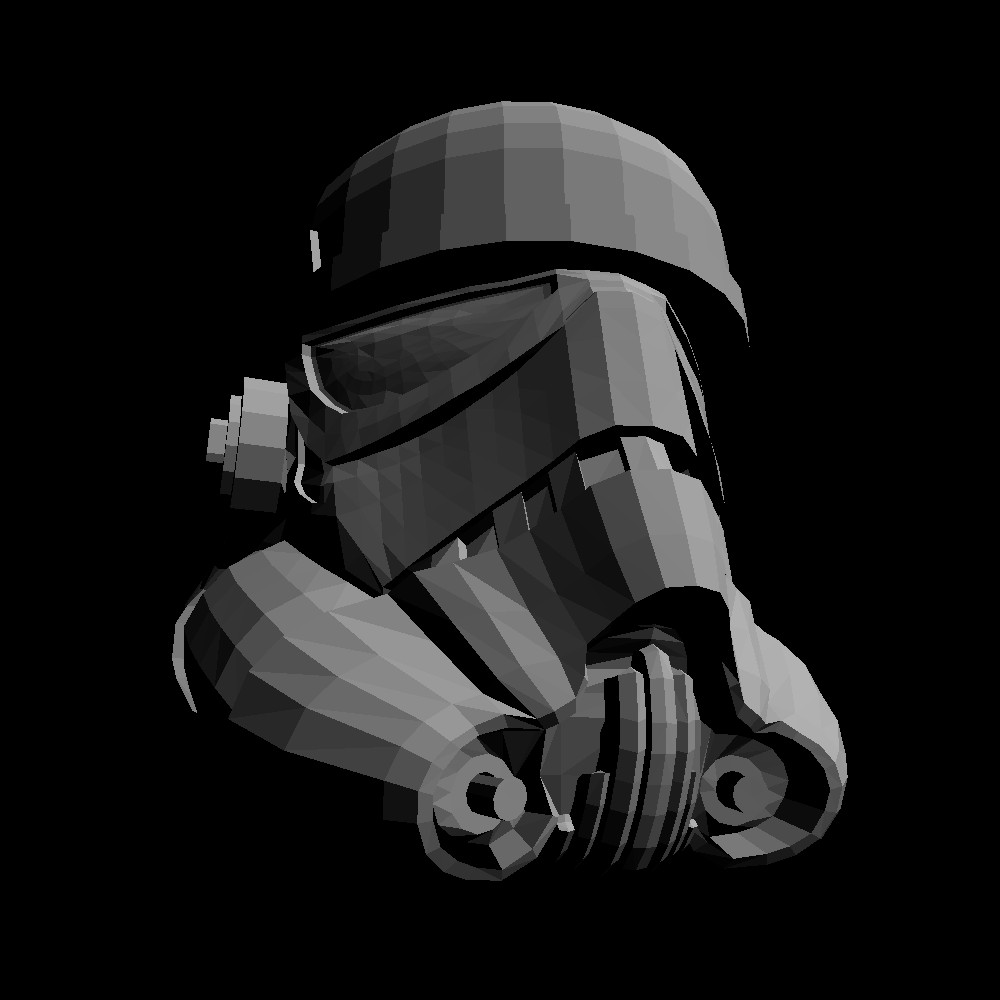
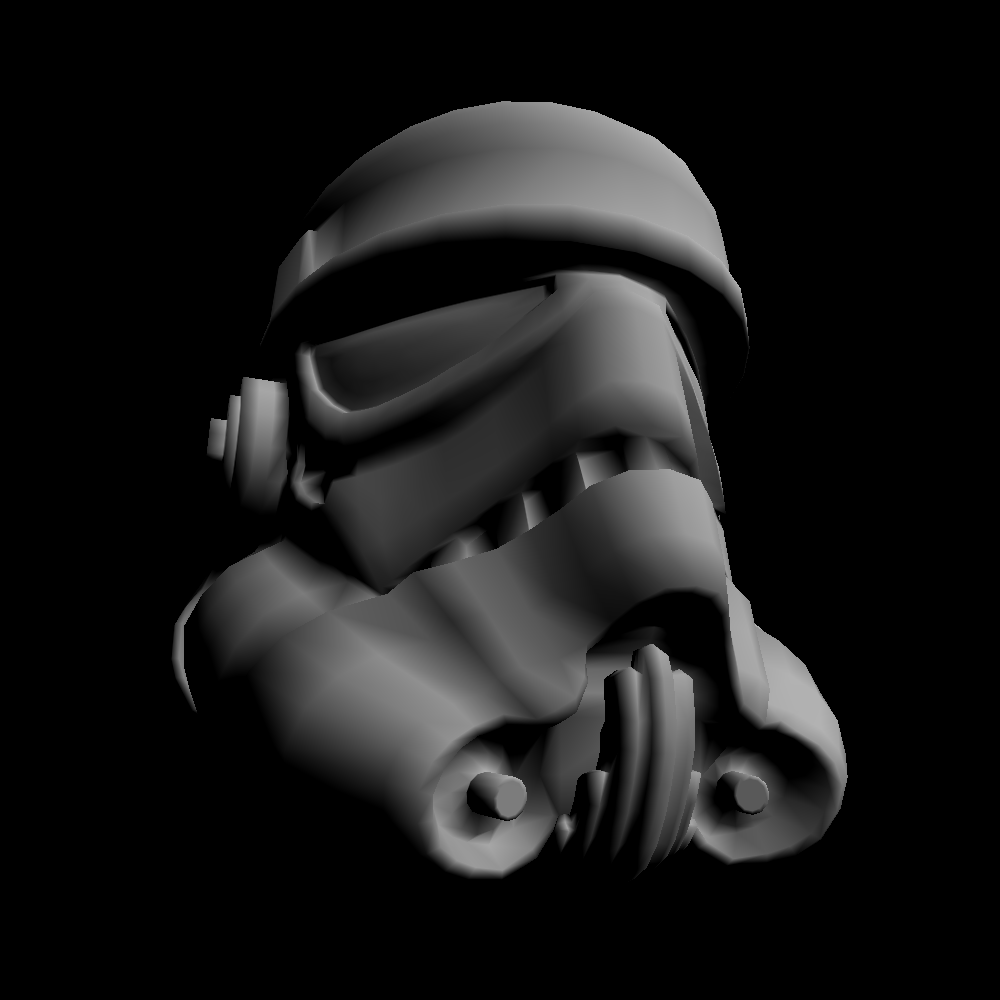
4 лаба

diff --git a/src/com/company/SimpleObjUtils.java b/src/com/company/SimpleObjUtils.java
@@ -29,6 +29,12 @@ public class SimpleObjUtils {
                 // считываем трёхмерные координаты
                 simpleObj.addCoord(new Coord(lineScanner.nextDouble(),lineScanner.nextDouble(),lineScanner.nextDouble()));
             }
+            // если это строка нормали
+            if(str.charAt(0)=='v'&&str.charAt(1)=='n'){
+                lineScanner = new Scanner(str.substring(2)).useLocale(Locale.ENGLISH);
+                // считываем трёхмерные координаты
+                simpleObj.addNormal(new Coord(lineScanner.nextDouble(),lineScanner.nextDouble(),lineScanner.nextDouble()));
+            }
             // если это строка полигона
             else if(str.charAt(0)=='f'){
                 Polygon currPolygon=new Polygon();
@@ -260,7 +266,7 @@ public class SimpleObjUtils {
         return picture;
     }
 
-    // проективное преобразование
+    // камера, свет
     public static Picture SimpleObjToPicture8(SimpleObj simpleObj, int w, int h, Camera camera, Light light){
         double ex=1/Math.tan(camera.getXAngle()/2);
         double ey=1/Math.tan(camera.getYAngle()/2);
@@ -272,9 +278,6 @@ public class SimpleObjUtils {
         Coord xe=MathTools.rotate(new Coord(1,0,0), camera.getAlpha(), camera.getBeta(), 0);
         Coord ye=MathTools.rotate(new Coord(0,1,0), camera.getAlpha(), camera.getBeta(), 0);
         Coord ze=MathTools.rotate(new Coord(0,0,1), camera.getAlpha(), camera.getBeta(), 0);
-        System.out.println(xe.getX()+" "+xe.getY()+" "+xe.getZ());
-        System.out.println(ye.getX()+" "+ye.getY()+" "+ye.getZ());
-        System.out.println(ze.getX()+" "+ze.getY()+" "+ze.getZ());
         A[0][0]=xe.getX(); A[0][1]=ye.getX(); A[0][2]=ze.getX();
         A[1][0]=xe.getY(); A[1][1]=ye.getY(); A[1][2]=ze.getY();
         A[2][0]=xe.getZ(); A[2][1]=ye.getZ(); A[2][2]=ze.getZ();
@@ -314,6 +317,72 @@ public class SimpleObjUtils {
                     }
 
                     PictureUtils.drawTriangleZ2(picture, tri, new Color((int)Math.round(255*brightness)));
+                }
+            }
+        }
+        return picture;
+    }
+
+    // тонировка Гуро
+    public static Picture SimpleObjToPicture9(SimpleObj simpleObj, int w, int h, Camera camera, Light light){
+        double ex=1/Math.tan(camera.getXAngle()/2);
+        double ey=1/Math.tan(camera.getYAngle()/2);
+        double n=camera.getN();
+        double f=camera.getF();
+        Coord camDirection=MathTools.rotate(new Coord(0,0,1), camera.getAlpha(), camera.getBeta(),0);
+
+        double[][] A=new double[3][3];
+        Coord xe=MathTools.rotate(new Coord(1,0,0), camera.getAlpha(), camera.getBeta(), 0);
+        Coord ye=MathTools.rotate(new Coord(0,1,0), camera.getAlpha(), camera.getBeta(), 0);
+        Coord ze=MathTools.rotate(new Coord(0,0,1), camera.getAlpha(), camera.getBeta(), 0);
+        A[0][0]=xe.getX(); A[0][1]=ye.getX(); A[0][2]=ze.getX();
+        A[1][0]=xe.getY(); A[1][1]=ye.getY(); A[1][2]=ze.getY();
+        A[2][0]=xe.getZ(); A[2][1]=ye.getZ(); A[2][2]=ze.getZ();
+
+        double[][] AInv=MathTools.inversion(A,3);
+
+        double[][] newO = new double[3][1];
+        newO[0][0]=camera.getPosition().getX();
+        newO[1][0]=camera.getPosition().getY();
+        newO[2][0]=camera.getPosition().getZ();
+
+        double[][] oldO = MathTools.matMul(MathTools.scalMul(AInv,3,3,-1),newO, 3, 3, 1);
+
+        Picture picture=new Picture(w,h);
+        ArrayList<Coord> coords=simpleObj.getCoords();
+        ArrayList<Coord> normals=simpleObj.getNormals();
+        ArrayList<Polygon> polygons= simpleObj.getPolygons();
+        // проходим по всем полигонам
+        for(int i=0; i<polygons.size();i++){
+            ArrayList<Vertice> vertices = polygons.get(i).getVertices();
+            // рисуем все треугольники с двумя соседними вершинами и нулевой вершиной
+            int[] v=new int[3];
+            int[] vn=new int[3];
+            v[0]=vertices.get(0).getV()>0?vertices.get(0).getV()-1:coords.size()+vertices.get(0).getV();
+            vn[0]=vertices.get(0).getVn()>0?vertices.get(0).getVn()-1:coords.size()+vertices.get(0).getVn();
+            for(int j=1; j<vertices.size()-1; j++){
+                v[2]=vertices.get(j).getV()>0?vertices.get(j).getV()-1:coords.size()+vertices.get(j).getV();
+                v[1]=vertices.get(j+1).getV()>0?vertices.get(j+1).getV()-1:coords.size()+vertices.get(j+1).getV();
+                vn[2]=vertices.get(j).getVn()>0?vertices.get(j).getVn()-1:coords.size()+vertices.get(j).getVn();
+                vn[1]=vertices.get(j+1).getVn()>0?vertices.get(j+1).getVn()-1:coords.size()+vertices.get(j+1).getVn();
+                Coord normal=MathTools.normal(coords.get(v[0]),coords.get(v[1]),coords.get(v[2]));
+                Coord[] vNormals=new Coord[3];
+                double[] brightness=new double[3];
+                for(int k=0; k<3; k++){
+                    vNormals[k]=normals.get(vn[k]);
+                    brightness[k]=-MathTools.normDotProduct(vNormals[k],light.getDirection())*light.getBrightness();
+                }
+                if(MathTools.normDotProduct(normal,camDirection)<=2){
+                    Coord[] tri=new Coord[3];
+                    for(int k=0; k<3; k++){
+                        Coord coord=MathTools.ncs(coords.get(v[k]),AInv,oldO);
+                        tri[k]=new Coord();
+                        tri[k].setX((1+ex*coord.getX()/coord.getZ())*w/2);
+                        tri[k].setY((1+ey*coord.getY()/coord.getZ())*w/2);
+                        tri[k].setZ((f+n)/(f-n)-2*f*n/((f-n)*coord.getZ()));
+                    }
+
+                    PictureUtils.drawTriangleZ3(picture, tri, brightness);
                 }
             }
         }

diff --git a/src/com/company/PictureUtils.java b/src/com/company/PictureUtils.java
@@ -264,7 +264,7 @@ public class PictureUtils {
     }
 
 
-    // последняя отрисовка треугольника
+    // отрисовка треугольника в усеченной пирамиде
     public static Picture drawTriangleZ2(Picture picture, Coord[] tri, Color color){
         int xmin = (int)Math.round(Math.min(tri[0].getX(), Math.min(tri[1].getX(), tri[2].getX())));
         int ymin = (int)Math.round(Math.min(tri[0].getY(), Math.min(tri[1].getY(), tri[2].getY())));
@@ -282,6 +282,34 @@ public class PictureUtils {
                     z=coord.getX()* tri[0].getZ()+ coord.getY()* tri[1].getZ()+ coord.getZ()* tri[2].getZ();
                     if(z>=-1&&z<=1&&z<picture.getZbuf(i,j)){
                         drawPixel(picture,i,j,color);
+                        picture.setZbuf(i,j,z);
+                    }
+                }
+            }
+        return picture;
+    }
+
+
+    // отрисовка треугольника с тонировкой Гуро
+    public static Picture drawTriangleZ3(Picture picture, Coord[] tri, double[] brightness){
+        int xmin = (int)Math.round(Math.min(tri[0].getX(), Math.min(tri[1].getX(), tri[2].getX())));
+        int ymin = (int)Math.round(Math.min(tri[0].getY(), Math.min(tri[1].getY(), tri[2].getY())));
+        int xmax = (int)Math.round(Math.max(tri[0].getX(), Math.max(tri[1].getX(), tri[2].getX())))+1;
+        int ymax = (int)Math.round(Math.max(tri[0].getY(), Math.max(tri[1].getY(), tri[2].getY())))+1;
+        if(xmin<0) xmin=0;
+        if(xmax> picture.getW()) xmax=picture.getW();
+        if(ymin<0) ymin=0;
+        if(ymax> picture.getH()) ymax=picture.getH();
+        double z=0;
+        for(int i=xmin; i<xmax; i++)
+            for(int j=ymin; j<ymax; j++){
+                Coord coord=MathTools.barycentric(i,j,new Coord(tri[0].getX(),tri[1].getX(),tri[2].getX()),new Coord(tri[0].getY(),tri[1].getY(),tri[2].getY()));
+                if(coord.getX()>=0&&coord.getY()>=0&&coord.getZ()>=0){
+                    z=coord.getX()* tri[0].getZ()+ coord.getY()* tri[1].getZ()+ coord.getZ()* tri[2].getZ();
+                    if(z>=-1&&z<=1&&z<picture.getZbuf(i,j)){
+                        double currBrightness=coord.getX()*brightness[0]+ coord.getY()*brightness[1]+ coord.getZ()*brightness[2];
+                        if(currBrightness<0) currBrightness=0;
+                        drawPixel(picture,i,j,new Color((int)Math.round(255*currBrightness)));
                         picture.setZbuf(i,j,z);
                     }
                 }

diff --git a/src/com/company/SimpleObj.java b/src/com/company/SimpleObj.java
@@ -8,11 +8,15 @@ public class SimpleObj {
     // массив координат вершин
     private ArrayList<Coord> coords;
 
+    // массив нормалей вершин
+    private ArrayList<Coord> normals;
+
     // массив полигонов
     private ArrayList<Polygon> polygons;
 
     public SimpleObj(){
         coords=new ArrayList<Coord>();
+        normals=new ArrayList<Coord>();
         polygons=new ArrayList<Polygon>();
     }
 
@@ -25,6 +29,18 @@ public class SimpleObj {
     }
 
     public void setCoords(ArrayList<Coord> coords){ this.coords=coords;}
+
+    public ArrayList<Coord> getNormals() {
+        return normals;
+    }
+
+    public void addNormal(Coord normal) {
+        normals.add(normal);
+    }
+
+    public void setNormals(ArrayList<Coord> normals) {
+        this.normals = normals;
+    }
 
     public ArrayList<Polygon> getPolygons() {
         return polygons;

diff --git a/src/com/company/Main.java b/src/com/company/Main.java
@@ -113,7 +113,7 @@ public class Main {
 
 
             //lab4
-            ///*
+            /*
             Camera camera=new Camera(
                     new Coord(1.5,-1.5,4),
                     Math.PI*-0.1, -Math.PI*1.12,
@@ -121,11 +121,10 @@ public class Main {
                     1, 10);
             Light light=new Light(new Coord(0.5,-0.8,-1),0.7);
             //light.setDirection(MathTools.rotate(new Coord(0,0,1),camera.getAlpha(),camera.getBeta(),0));
-            Picture picture0 = SimpleObjUtils.SimpleObjToPicture8(stormTrooper,1000,1000,camera, light);
+            Picture picture0 = SimpleObjUtils.SimpleObjToPicture9(stormTrooper,1000,1000,camera, light);
             PictureUtils.savePicture(picture0, "pictures/lab4/picture0.png");
 
-            //*/
-
+            */
 
             //extra
             /*

diff --git a/src/com/company/MathTools.java b/src/com/company/MathTools.java
@@ -102,8 +102,7 @@ public class MathTools {
     }
 
     //обратная матрица
-    public static double[][] inversion(double[][] A, int N)
-    {
+    public static double[][] inversion(double[][] A, int N) {
         double temp;
 
         double[][] E = new double[N][N];
